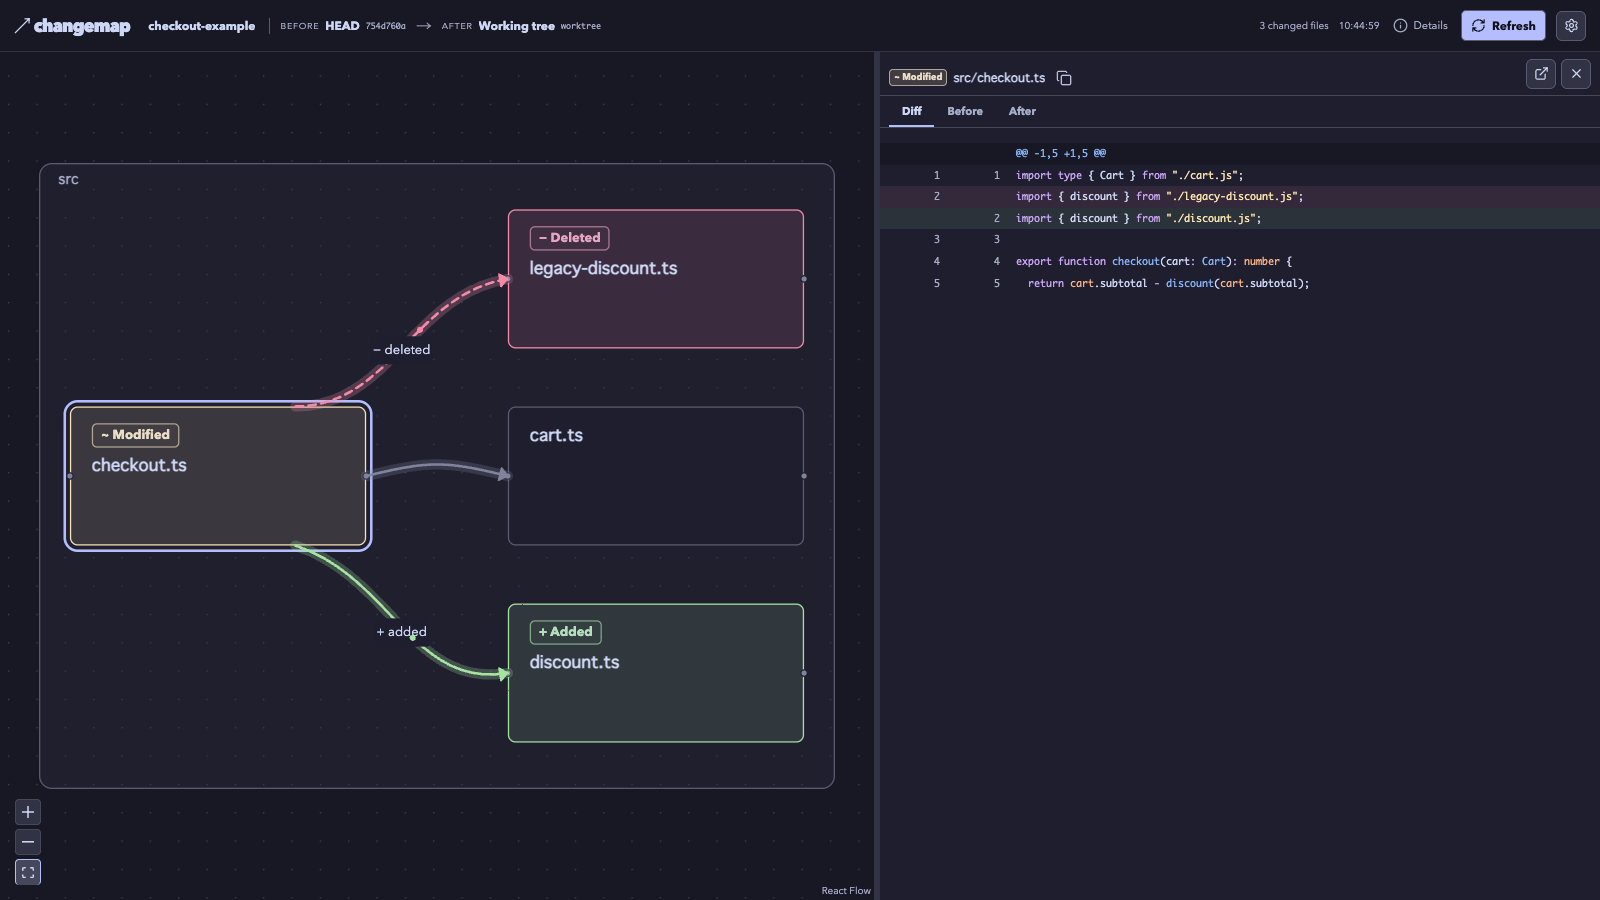
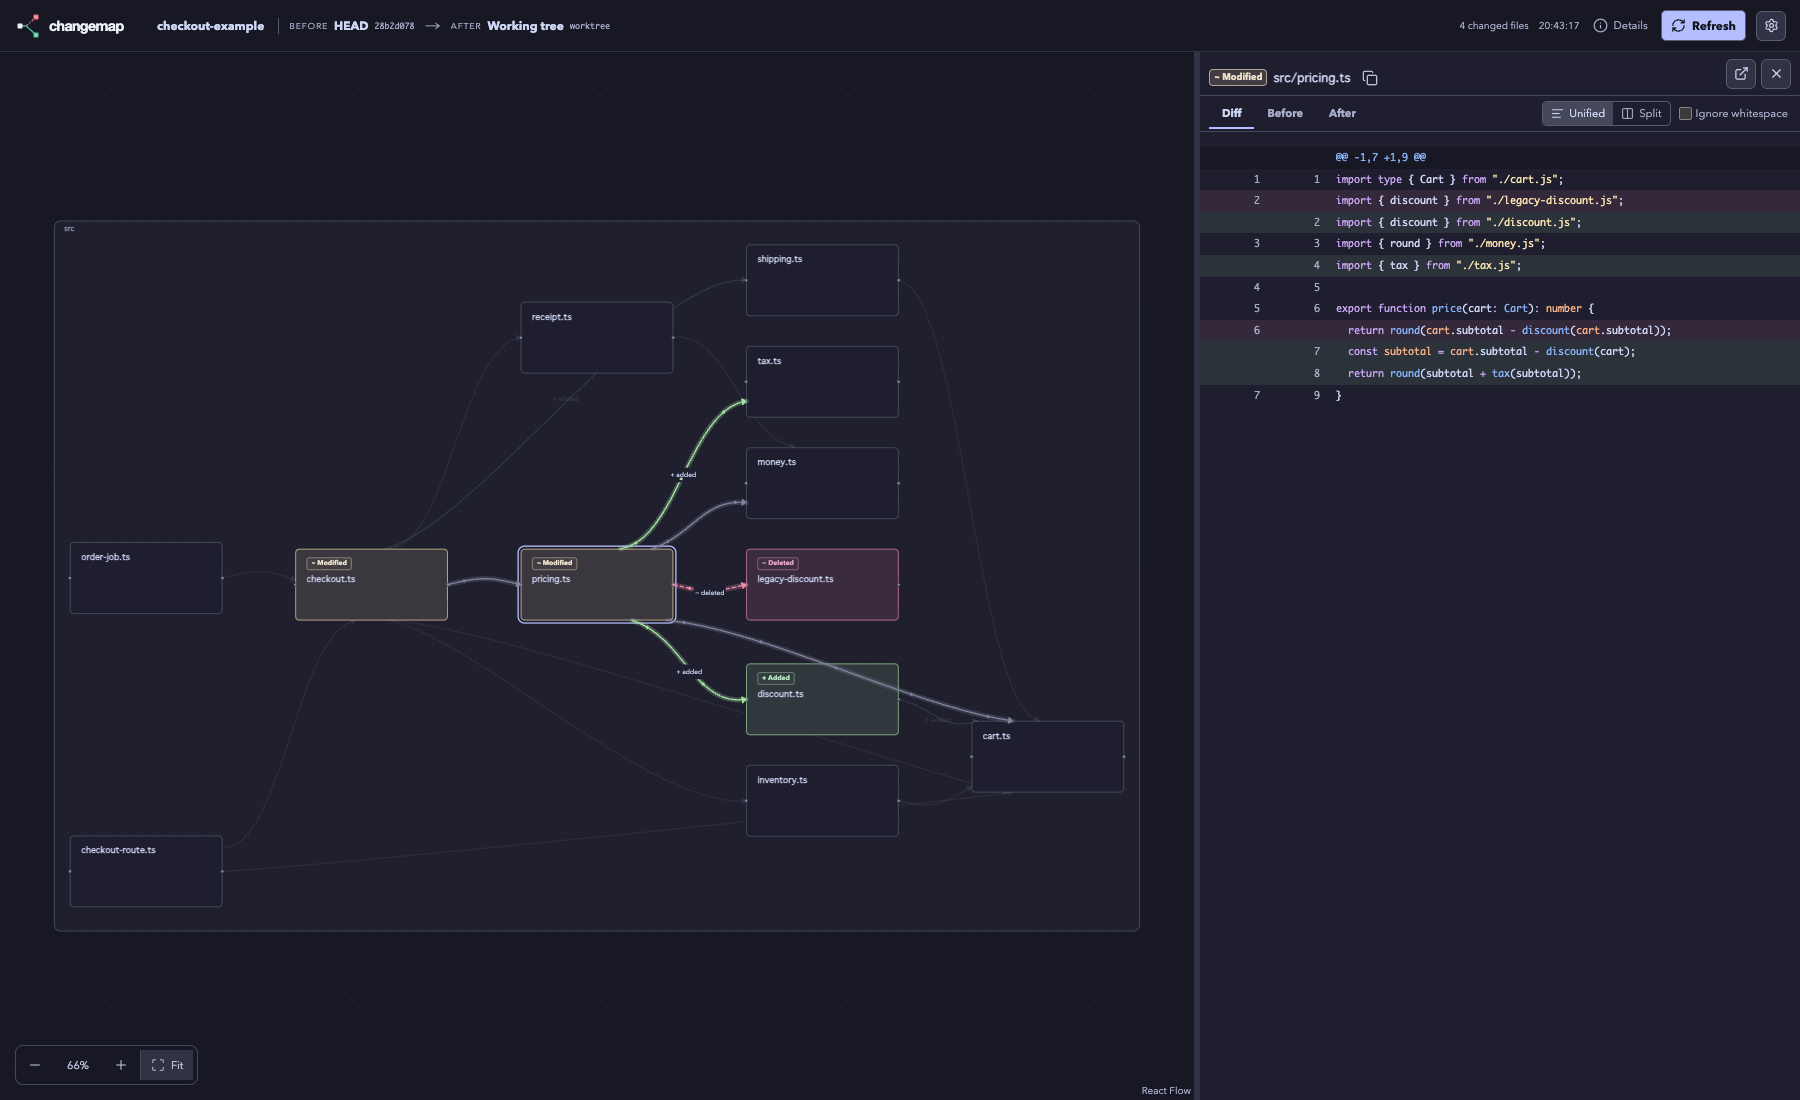
docs: README のキャプチャを複雑な依存グラフに更新する

diff --git a/README.md b/README.md
@@ -12,7 +12,7 @@ Understand code changes through file dependency maps.
 Review local Git changes in your browser. See which TypeScript and Go files depend on
 changed code, follow added or removed dependencies, and read diffs alongside the map.
 
-![Current review screen: checkout.ts switches from legacy-discount.ts to discount.ts, with added and deleted dependencies beside its code diff.](https://raw.githubusercontent.com/tapioca24/changemap/main/.github/assets/changemap.png)
+![Checkout review with 12 connected files: pricing.ts switches discount modules and adds tax calculation, with added and deleted dependencies beside its code diff.](https://raw.githubusercontent.com/tapioca24/changemap/main/.github/assets/changemap.png)
 
 ## Quick start
 
